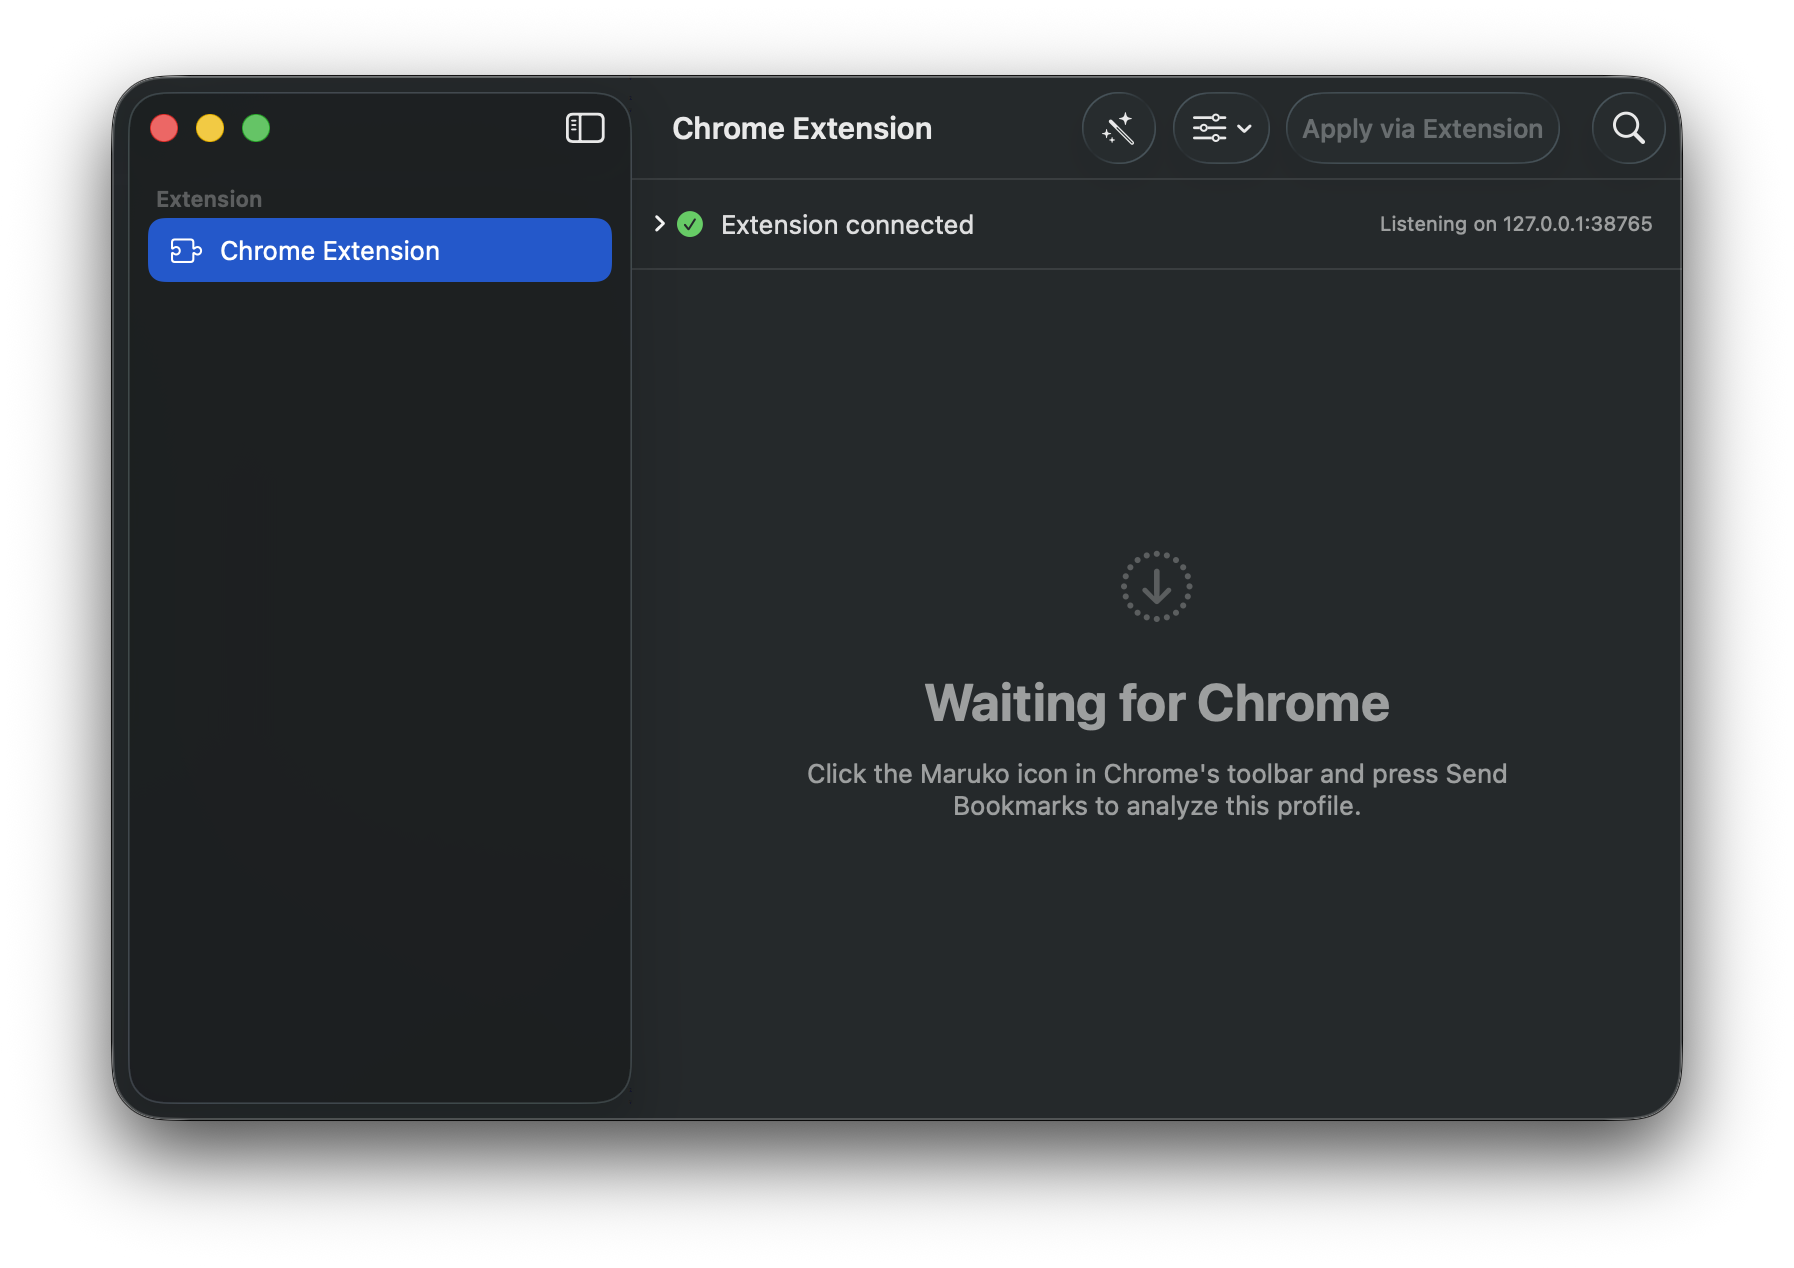
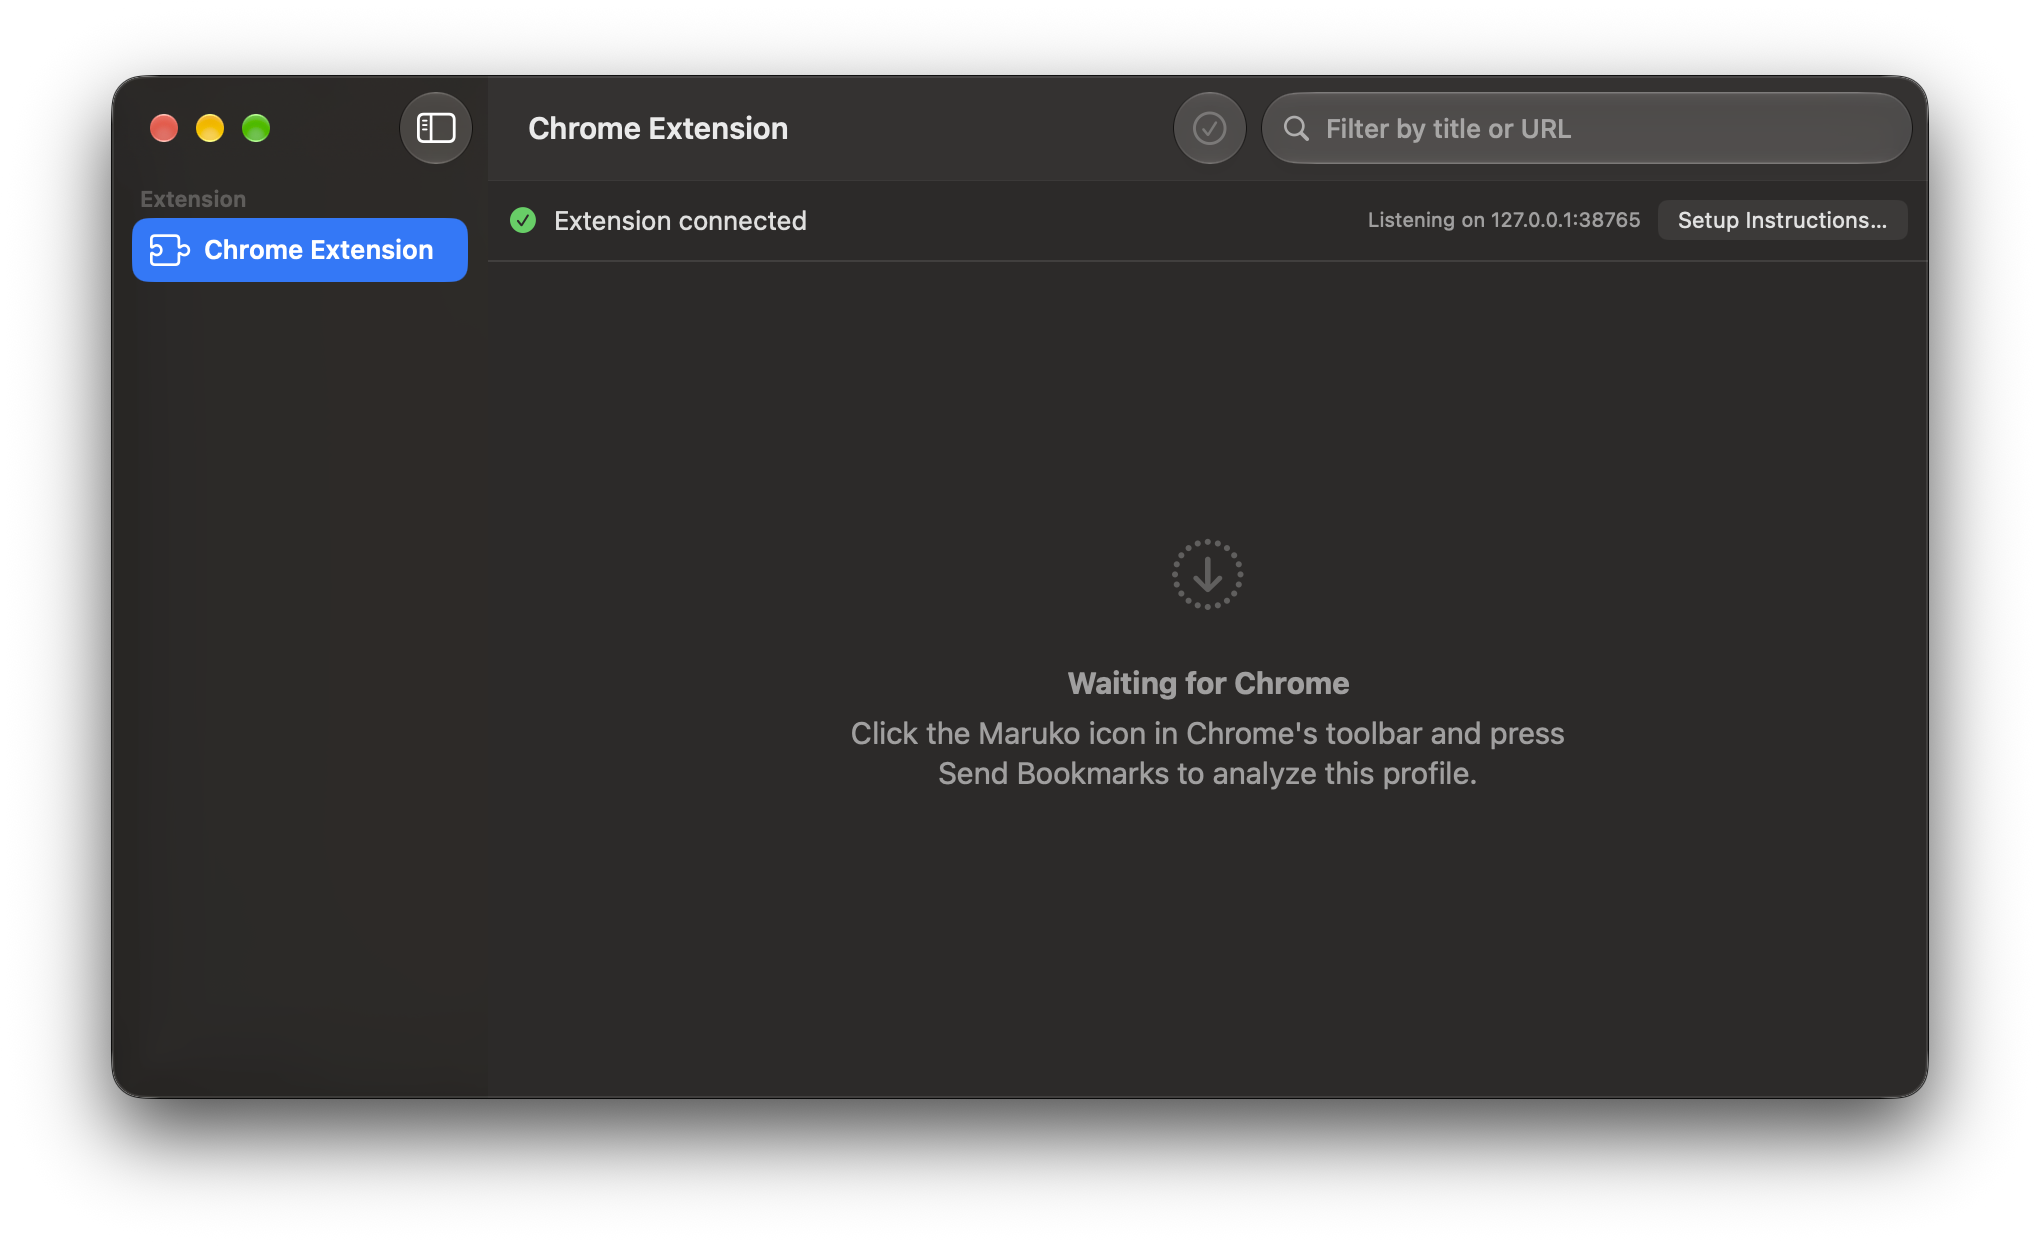
Limit Recent to Other Bookmarks
This change narrows Recent to candidates reachable from Other Bookmarks only, preserving bookmark bar items and other folders from being moved. It also avoids reprocessing nested folders inside Recent, keeps duplicate handling deterministic, and updates the setup UX to use a dedicated sheet instead of an expanding disclosure. Tests and README wording were adjusted to match the new behavior.

Changed region(s): [[0.0312, 0.061, 0.9677, 0.8844], [0.4058, 0.5185, 0.8428, 0.6404], [0.5619, 0.427, 0.6555, 0.488]]

diff --git a/Maruko/MarukoTests/BookmarkTreeFormatterTests.swift b/Maruko/MarukoTests/BookmarkTreeFormatterTests.swift
@@ -184,35 +184,42 @@ struct BookmarkTreeFormatterTests {
         #expect(otherRoot.children.map(\.title) == ["Item 1", "Item 2"])
     }
 
-    @Test func curateTreePullsRecentlyVisitedBookmarksFromAnywhereExceptLooseOnTheBar() {
+    @Test func curateTreeOnlyPullsRecentCandidatesFromOtherBookmarks() {
         let now = Date()
-        let nested = rawFolder(id: "nested", name: "Nested", children: [
-            rawURL(id: "innested", name: "In Nested", url: "https://innested.example.com/"),
+        let nestedOnBar = rawFolder(id: "nested-bar", name: "Nested", children: [
+            rawURL(id: "innested-bar", name: "In Nested On Bar", url: "https://innestedbar.example.com/"),
+        ])
+        let nestedInOther = rawFolder(id: "nested-other", name: "Nested", children: [
+            rawURL(id: "innested-other", name: "In Nested In Other", url: "https://innestedother.example.com/"),
         ])
         let trees = baseTrees(
             barChildren: [
                 rawURL(id: "onbar", name: "On The Bar", url: "https://onbar.example.com/"),
-                nested,
+                nestedOnBar,
             ],
-            otherChildren: [rawURL(id: "other1", name: "In Other", url: "https://other1.example.com/")]
+            otherChildren: [
+                rawURL(id: "inother", name: "In Other", url: "https://inother.example.com/"),
+                nestedInOther,
+            ]
         )
         let visits = visitMap([
             "https://onbar.example.com/": now,
-            "https://innested.example.com/": now.addingTimeInterval(-1800),
-            "https://other1.example.com/": now.addingTimeInterval(-3600),
+            "https://innestedbar.example.com/": now,
+            "https://inother.example.com/": now.addingTimeInterval(-60),
+            "https://innestedother.example.com/": now.addingTimeInterval(-120),
         ])
 
         let plan = BookmarkTreeFormatter.curateTree(trees: trees, recentVisits: visits)
 
-        // "On The Bar" sits loose directly on the bar (not inside a
-        // subfolder), so it's already at maximum visibility and is excluded
-        // from "Recent" candidacy. The other two, though visited less
-        // recently, still qualify.
+        // Only the two bookmarks reachable from "Other Bookmarks" qualify,
+        // even though the bar's are visited more recently. Nothing on the
+        // bar, loose or nested, is ever moved.
         #expect(plan.recentAdditions.count == 2)
-        #expect(plan.recentItems.map(\.nodeID) == ["innested", "other1"])
+        #expect(Set(plan.recentItems.compactMap(\.nodeID)) == ["inother", "innested-other"])
 
         let bar = trees.first { $0.rootKey == "bookmark_bar" }!.node
         #expect(bar.children.contains { $0.raw["id"] as? String == "onbar" })
+        #expect(bar.children.contains { $0.raw["id"] as? String == "nested-bar" })
     }
 
     // MARK: - Subfolders inside Recent are untouched
@@ -278,13 +285,13 @@ struct BookmarkTreeFormatterTests {
 
     @Test func curateTreeDedupsBeforeSelectingRecent() {
         let now = Date()
-        let nested = rawFolder(id: "nested", name: "Nested", children: [
-            rawURL(id: "bar-item", name: "Item", url: "https://item.example.com/"),
+        let dupFolder = rawFolder(id: "dup-folder", name: "Dup Folder", children: [
+            rawURL(id: "dupe-item", name: "Item Dupe", url: "https://item.example.com/"),
         ])
-        let trees = baseTrees(
-            barChildren: [nested],
-            otherChildren: [rawURL(id: "other-item", name: "Item Dupe", url: "https://item.example.com/")]
-        )
+        let trees = baseTrees(otherChildren: [
+            rawURL(id: "keep-item", name: "Item", url: "https://item.example.com/"),
+            dupFolder,
+        ])
         let visits = visitMap(["https://item.example.com/": now])
 
         let plan = BookmarkTreeFormatter.curateTree(trees: trees, recentVisits: visits)
@@ -292,6 +299,7 @@ struct BookmarkTreeFormatterTests {
         #expect(plan.duplicates.count == 1)
         #expect(plan.recentItems.count == 1)
         #expect(plan.recentAdditions.count == 1)
+        #expect(plan.recentItems.first?.nodeID == "keep-item")
     }
 
     @Test func curateTreeIsIdempotent() {

diff --git a/Maruko/Maruko/Services/BookmarkTreeFormatter.swift b/Maruko/Maruko/Services/BookmarkTreeFormatter.swift
@@ -119,12 +119,13 @@ nonisolated enum RequiredFolder: String, CaseIterable, Sendable {
 }
 
 /// Curates Maruko's managed folders. Remove duplicate URLs, then classify
-/// every remaining bookmark in the tree into "Recent" (most accessed in the
-/// last 30 days), capping it at 20 and evicting whatever doesn't make the
-/// cut back to "Other Bookmarks". Everything else is left exactly where it
-/// is; "Other Bookmarks" own direct children are sorted alphabetically as
-/// its one folder-specific rule. The trees are mutated in place with the
-/// result.
+/// bookmarks reachable from "Other Bookmarks" into "Recent" (most accessed
+/// in the last 30 days), capping it at 20 and evicting whatever doesn't make
+/// the cut back to "Other Bookmarks". Nothing outside "Other Bookmarks" (the
+/// bookmark bar, any other folder) is ever considered for "Recent" or
+/// moved. Everything else is left exactly where it is; "Other Bookmarks"
+/// own direct children are sorted alphabetically as its one folder-specific
+/// rule. The trees are mutated in place with the result.
 nonisolated enum BookmarkTreeFormatter {
     /// The first folder matching `name` exactly (trimmed, case-insensitive),
     /// found via depth-first search across the given roots in a fixed order
@@ -256,14 +257,21 @@ nonisolated enum BookmarkTreeFormatter {
             )
         }
         let otherRoot = trees.first(where: { $0.rootKey == "other" })?.node
-        let barRoot = trees.first(where: { $0.rootKey == "bookmark_bar" })?.node
 
-        // Collect every remaining URL bookmark, tree-wide, with its current
-        // parent. "Recent"'s own subfolders are left completely untouched:
-        // walk its direct URL children (candidates for keep/evict) but
-        // never recurse into a subfolder living inside it.
+        // Collect every remaining URL bookmark reachable from "Other
+        // Bookmarks", with its current parent: these are the only
+        // candidates "Recent" pulls from. Also walk "Recent" itself (which
+        // usually lives elsewhere, e.g. on the bar) so its own current
+        // residents are considered for keep/evict — but nowhere else. A
+        // bookmark on the bar, or in any other folder, is never moved.
+        // "Recent"'s own subfolders are left completely untouched: walk its
+        // direct URL children but never recurse into a subfolder living
+        // inside it. `visitedFolders` guards against collecting "Recent"
+        // twice when it happens to live inside "Other Bookmarks".
         var candidates: [Candidate] = []
+        var visitedFolders = Set<ObjectIdentifier>()
         func collect(_ folder: BookmarkNode) {
+            guard visitedFolders.insert(ObjectIdentifier(folder)).inserted else { return }
             let isManaged = folder === recentFolder
             for child in folder.children {
                 switch child.kind {
@@ -281,13 +289,10 @@ nonisolated enum BookmarkTreeFormatter {
                 }
             }
         }
-        for root in roots { collect(root) }
+        if let otherRoot { collect(otherRoot) }
+        collect(recentFolder)
 
-        // Bookmarks sitting loose directly on the bar (not inside a
-        // subfolder) are already at maximum visibility by being there; being
-        // frequently used is *why* they're on the bar, not a reason to also
-        // pull them into "Recent".
-        let recentCandidates = candidates.filter { $0.visit != nil && $0.parent !== barRoot }
+        let recentCandidates = candidates.filter { $0.visit != nil }
 
         let rankedRecent = recentCandidates
             .sorted { a, b in

diff --git a/Maruko/Maruko/Views/ChromeExtensionView.swift b/Maruko/Maruko/Views/ChromeExtensionView.swift
@@ -9,7 +9,7 @@ struct ChromeExtensionView: View {
     @ObservedObject var extensionStore: ExtensionFormatStore
 
     @State private var showingApplyConfirmation = false
-    @State private var setupExpanded = false
+    @State private var showingSetupSheet = false
     @State private var filterText = ""
 
     var body: some View {
@@ -54,20 +54,44 @@ struct ChromeExtensionView: View {
                 Text(plan.confirmationSummary)
             }
         }
+        .sheet(isPresented: $showingSetupSheet) {
+            setupSheet
+        }
         .task {
             extensionStore.start()
             extensionStore.refreshInstallState()
-            setupExpanded = !extensionStore.extensionConnected
+            showingSetupSheet = !extensionStore.extensionConnected
         }
         .onChange(of: extensionStore.extensionConnected) { _, connected in
-            if connected { setupExpanded = false }
+            if connected { showingSetupSheet = false }
         }
     }
 
     // MARK: - Setup / pairing
 
+    /// A single-line status row, constant height whether or not the
+    /// extension is connected. The full instructions live in a sheet
+    /// (`setupSheet`) so opening them never resizes the main window.
     private var setupSection: some View {
-        DisclosureGroup(isExpanded: $setupExpanded) {
+        HStack(spacing: 8) {
+            Image(systemName: extensionStore.extensionConnected ? "checkmark.circle.fill" : "puzzlepiece.extension")
+                .foregroundStyle(extensionStore.extensionConnected ? .green : .secondary)
+            Text(extensionStore.extensionConnected ? "Extension connected" : "Chrome extension not set up")
+            Spacer()
+            serverStatus
+            Button(extensionStore.extensionConnected ? "Setup Instructions…" : "Set Up…") {
+                showingSetupSheet = true
+            }
+            .controlSize(.small)
+        }
+        .padding(10)
+    }
+
+    private var setupSheet: some View {
+        VStack(alignment: .leading, spacing: 16) {
+            Text("Set Up the Chrome Extension")
+                .font(.headline)
+
             VStack(alignment: .leading, spacing: 10) {
                 setupStep(1, "Click Install Extension to put the extension where Chrome can load it. Finder opens with the folder selected.") {
                     Button("Install Extension…") {
@@ -96,17 +120,18 @@ struct ChromeExtensionView: View {
                     }
                 }
             }
-            .padding(.vertical, 6)
-        } label: {
-            HStack(spacing: 8) {
-                Image(systemName: extensionStore.extensionConnected ? "checkmark.circle.fill" : "puzzlepiece.extension")
-                    .foregroundStyle(extensionStore.extensionConnected ? .green : .secondary)
-                Text(extensionStore.extensionConnected ? "Extension connected" : "Set up the Chrome extension")
+
+            HStack {
                 Spacer()
-                serverStatus
+                Button("Done") {
+                    showingSetupSheet = false
+                }
+                .keyboardShortcut(.defaultAction)
             }
         }
-        .padding(10)
+        .padding(20)
+        .frame(width: 480)
+        .fixedSize(horizontal: false, vertical: true)
     }
 
     @ViewBuilder

diff --git a/README.md b/README.md
@@ -10,7 +10,7 @@ Maruko is a macOS app that cleans up bookmarks in the browsers you already use. 
 
 Maruko manages exactly two folders, which must already exist somewhere in your Chrome bookmarks (Maruko never creates them for you):
 
-- **Recent** (up to 20 links). The bookmarks you've opened most in the last 30 days, most visited first. Bookmarks sitting loose directly on the bookmark bar (not inside a folder) are skipped — being on the bar already means they're used constantly, so pulling them into Recent too would be redundant.
+- **Recent** (up to 20 links). Pulled only from "Other Bookmarks", the bookmarks you've opened most in the last 30 days, most visited first. Nothing on the bookmark bar, or in any other folder, is ever moved.
 - **Other Bookmarks**. Everything else, left exactly where it is. Its own direct bookmarks and folders are sorted alphabetically; nested subfolders elsewhere are never touched.
 
 Maruko also **removes duplicates**: bookmarks pointing at the same page (trailing slashes, fragments, query order, host case) are collapsed into one, everywhere in the tree.
